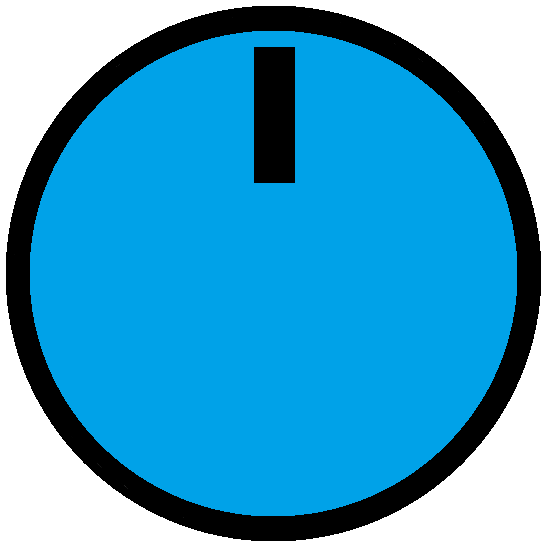
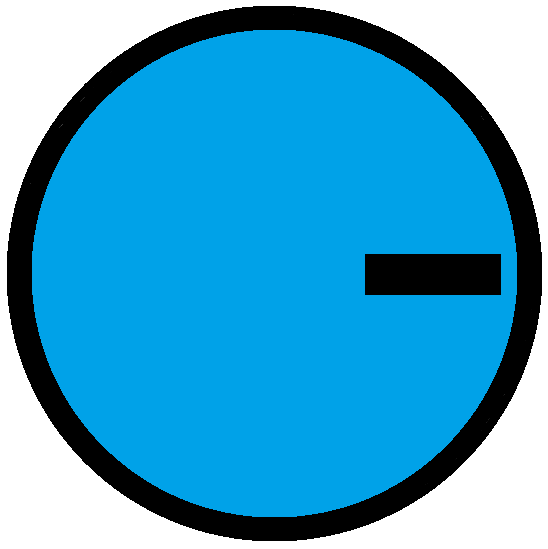
Added Movable Angle unit

diff --git a/Assets/Joystick Pack/Scripts/Base/Joystick.cs b/Assets/Joystick Pack/Scripts/Base/Joystick.cs
@@ -5,18 +5,18 @@ using UnityEngine.EventSystems;
 public class Joystick : MonoBehaviour, IPointerDownHandler, IDragHandler, IPointerUpHandler
 {
     public UnityEvent joystickPress;
-    private float pressTime = 0f;
-    private bool isPressed = false, isDragging;
-    private float tolerance = 0.1f;
-    private Vector2 touchStartPosition;
+    private float _pressTime = 0f;
+    private bool _isPressed = false, _isDragging;
+    private float _tolerance = 0.1f;
+    private Vector2 _touchStartPosition;
     public float Horizontal { get { return (snapX) ? SnapFloat(input.x, AxisOptions.Horizontal) : input.x; } }
     public float Vertical { get { return (snapY) ? SnapFloat(input.y, AxisOptions.Vertical) : input.y; } }
     public Vector2 Direction { get { return new Vector2(Horizontal, Vertical); } }
 
     public bool IsPressed 
     { 
-        get { return isPressed; } 
-        set { isPressed = value; } 
+        get { return _isPressed; } 
+        set { _isPressed = value; } 
     }
     public float HandleRange
     {
@@ -77,25 +77,25 @@ public class Joystick : MonoBehaviour, IPointerDownHandler, IDragHandler, IPoint
                 switch (touch.phase)
                 {
                     case TouchPhase.Began:
-                        isDragging = false; 
-                        pressTime = Time.time;
-                        touchStartPosition = touchPosition;
+                        _isDragging = false; 
+                        _pressTime = Time.time;
+                        _touchStartPosition = touchPosition;
                         break;
                     case TouchPhase.Moved:
-                        if(Vector2.Distance(touchPosition, touchStartPosition) >= tolerance)   
+                        if(Vector2.Distance(touchPosition, _touchStartPosition) >= _tolerance)   
                         {
-                            isDragging = true; 
+                            _isDragging = true; 
                         }
                         break;
                     case TouchPhase.Stationary:
-                        if ( !isDragging && Time.time - pressTime >= 0.2f)
+                        if ( !_isDragging && Time.time - _pressTime >= 0.2f)
                         {
                             joystickPress.Invoke();
                         }
                         break;
                     case TouchPhase.Ended:
                     case TouchPhase.Canceled:
-                        isDragging = false;
+                        _isDragging = false;
                         break;
                 }
             }

diff --git a/Assets/Scripts/MonoBehaviour/UnitsScripts/Managers/AngleManager.cs b/Assets/Scripts/MonoBehaviour/UnitsScripts/Managers/AngleManager.cs
@@ -1,0 +1,48 @@
+using UnityEngine;
+
+public class AngleManager : MonoBehaviour, IShowable
+{
+    private float _totalAngle = 0, _previousAngle = 0, _prevDelta = 0;
+    public static AngleManager instance;
+    private bool _isCounterClockwise;
+    private void Awake() => instance = this;
+  
+    private void Update()
+    {
+       Debug.Log(GetAngle());
+        //GetAngle();
+    }
+    public int GetAngle()
+    {
+        float _currentAngle = transform.GetChild(0).GetComponent<AngleBehaviour>().Angle;
+        float currDelta = _currentAngle - _previousAngle;
+        if (currDelta > 180 || currDelta < 0) //clockwise
+        {
+            _isCounterClockwise = false;
+        }
+        else if (currDelta < -180 || currDelta > 0) //counterclockwise
+        {
+            _isCounterClockwise = true;
+        }
+
+        float angle = _currentAngle; 
+        if ( _isCounterClockwise)
+        {   
+                _totalAngle += Mathf.Abs(_currentAngle - _previousAngle);
+        }
+        else
+        {
+
+            _totalAngle -= Mathf.Abs(angle - _previousAngle);
+        }
+        
+        _previousAngle = _currentAngle;
+        _prevDelta = _currentAngle - _previousAngle;
+        return (int)_totalAngle;
+    }
+
+  
+    public bool CanShowCategory() => UnitsManager.instance.UnitSlotHasChildren() && UnitsManager.instance.GetUnitImage().name.ToUpper() == GetCategoryName();
+    public void ClearGarbage() { /*do nothing*/}
+    public string GetCategoryName() => this.name.ToUpper();
+}

diff --git a/Assets/Scripts/MonoBehaviour/UnitsScripts/Behaviours/AngleBehaviour.cs b/Assets/Scripts/MonoBehaviour/UnitsScripts/Behaviours/AngleBehaviour.cs
@@ -1,0 +1,40 @@
+using UnityEngine;
+using UnityEngine.EventSystems;
+
+public class AngleBehaviour : MonoBehaviour, IPointerDownHandler, IDragHandler
+{
+    private Camera myCam;
+    private Vector3 screenPos;
+    private float angleOffset, angle = 0;
+    private RectTransform handleCollider;
+
+    public float Angle { get { return transform.localEulerAngles.z; } }
+    private void Start()
+    {
+        myCam = Camera.main;
+        Collider2D col = GetComponent<Collider2D>();
+        handleCollider = col.transform as RectTransform;
+    }
+
+    public void OnPointerDown(PointerEventData eventData)
+    {
+        if (RectTransformUtility.RectangleContainsScreenPoint(handleCollider, Input.mousePosition, myCam))
+        {
+            screenPos = myCam.WorldToScreenPoint(transform.position);
+            Vector3 vec3 = Input.mousePosition - screenPos;
+            angleOffset = (Mathf.Atan2(transform.right.y, transform.right.x) - Mathf.Atan2(vec3.y, vec3.x)) * Mathf.Rad2Deg;
+        }
+    }
+
+    public void OnDrag(PointerEventData eventData)
+    {
+        if (RectTransformUtility.RectangleContainsScreenPoint(handleCollider, Input.mousePosition, myCam))
+        {
+            Vector3 vec3 = Input.mousePosition - screenPos;
+            angle = Mathf.Atan2(vec3.y, vec3.x) * Mathf.Rad2Deg;
+            transform.eulerAngles = new Vector3(0, 0, angle + angleOffset);
+        }
+    }
+}
+
+

diff --git a/Assets/Scripts/MonoBehaviour/UnitsScripts/Managers/JoystickManager.cs b/Assets/Scripts/MonoBehaviour/UnitsScripts/Managers/JoystickManager.cs
@@ -24,14 +24,13 @@ public class JoystickManager : Joystick, IShowable
     public int GetXPosition() => (int)((Horizontal + 1)/2f * 255);
     public int GetYPosition() => (int)((Vertical + 1) / 2f * 255);
 
-    public bool CanShowCategory()
-    {
-        GameObject unitSlot = UnitsManager.instance.GetUnitSlot();
-        return UnitsManager.instance.UnitSlotHasChildren() && UnitsManager.instance.GetUnitImage().name.ToUpper() == GetCategoryName();
-    }
+    public bool CanShowCategory() => UnitsManager.instance.UnitSlotHasChildren() && UnitsManager.instance.GetUnitImage().name.ToUpper() == GetCategoryName();
     public void ClearGarbage()
     {
+        if (CanShowCategory()) 
+        { 
         joystickPress.RemoveAllListeners();
+        }
     }
     public string GetCategoryName() => this.name.ToUpper();
 }

diff --git a/Assets/Scripts/MonoBehaviour/UnitsScripts/DummyScript.cs b/Assets/Scripts/MonoBehaviour/UnitsScripts/DummyScript.cs
@@ -4,12 +4,7 @@ public class DummyScript : MonoBehaviour, IShowable
 {
     //this class is used for units that use an already existing class, so we can use the interface
     //without corrupting the other (used) class
-
-    public bool CanShowCategory()
-    {
-        GameObject unitSlot = UnitsManager.instance.GetUnitSlot();
-        return UnitsManager.instance.UnitSlotHasChildren() && UnitsManager.instance.GetUnitImage().name.ToUpper() == GetCategoryName();
-    }
+    public bool CanShowCategory() => UnitsManager.instance.UnitSlotHasChildren() && UnitsManager.instance.GetUnitImage().name.ToUpper() == GetCategoryName();
     public void ClearGarbage()
     {
            ButtonManager.instance.ClearAllListeners("Red Button");

diff --git a/Assets/ublockly-master/Source/Script/CodeDB/CSharp/CSharpRunner.cs b/Assets/ublockly-master/Source/Script/CodeDB/CSharp/CSharpRunner.cs
@@ -60,7 +60,7 @@ namespace UBlockly
             if (UnitsManager.instance.UnitSlotHasChildren())
             {
                 UnitsManager.instance.OpenUnitsSimulation();
-              //  while (UnitsManager.instance.GetActiveUnit() == null) { /*wait until the object is active*/}
+                //  while (UnitsManager.instance.GetActiveUnit() == null) { /*wait until the object is active*/}
                 UnitsManager.instance.GetActiveUnit().GetComponent<IShowable>().ClearGarbage();
             }
 
